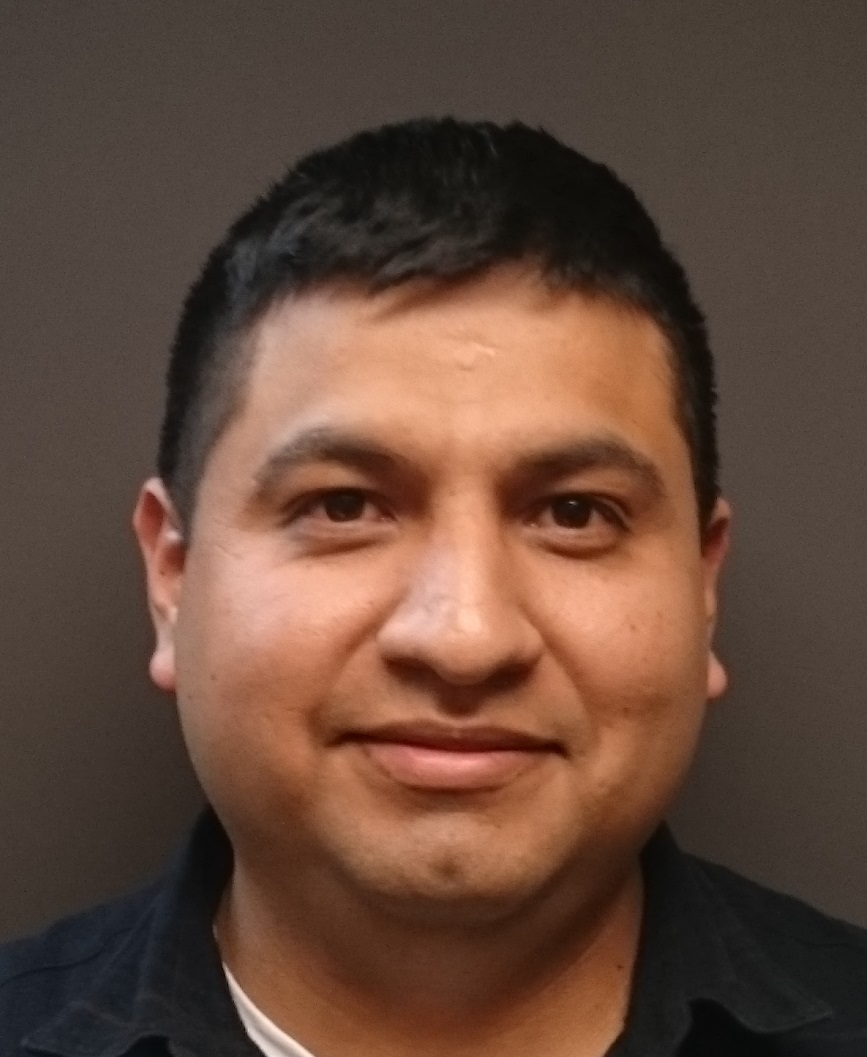
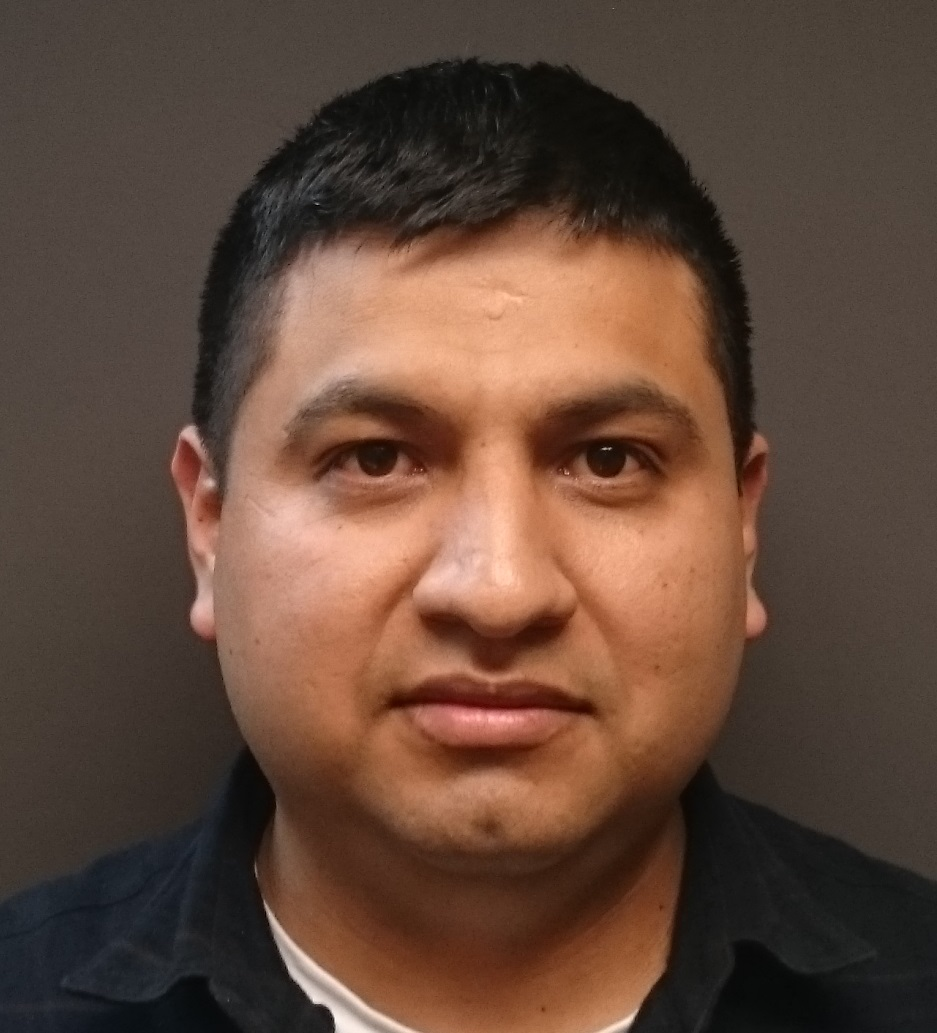
añaidas todas las imagenes

diff --git a/views/team.php b/views/team.php
@@ -44,6 +44,53 @@
 	            		  	</span> -->
             			</div>
 					</li>
+
+					<li>
+						<div class="cara" onclick="loadText('Diego')">
+							<div class="im" >
+								<img class="serius" src="../images/dSerius.jpg">
+	              		 		<img class="happy" src="../images/dHappy.jpg" >	
+	            		  	</div>
+	            		  	<!-- <span>
+	            		  		Azahara
+	            		  	</span> -->
+            			</div>
+					</li>
+
+					<li>
+						<div class="cara" onclick="loadText('Javier')">
+							<div class="im" >
+								<img class="serius" src="../images/vSerius.jpg">
+	              		 		<img class="happy" src="../images/vHappy.jpg" >	
+	            		  	</div>
+	            		  	<!-- <span>
+	            		  		Azahara
+	            		  	</span> -->
+            			</div>
+					</li>
+
+					<li>
+						<div class="cara" onclick="loadText('Julio')">
+							<div class="im" >
+								<img class="serius" src="../images/jSerius.jpg">
+	              		 		<img class="happy" src="../images/jHappy.jpg" >	
+	            		  	</div>
+	            		  	<!-- <span>
+	            		  		Azahara
+	            		  	</span> -->
+            			</div>
+					</li>
+					<li>
+						<div class="cara" onclick="loadText('Sergi0')">
+							<div class="im" >
+								<img class="serius" src="../images/sSerius.jpg">
+	              		 		<img class="happy" src="../images/sHappy.jpg" >	
+	            		  	</div>
+	            		  	<!-- <span>
+	            		  		Azahara
+	            		  	</span> -->
+            			</div>
+					</li>
 				</ul>
 			</div>
 
